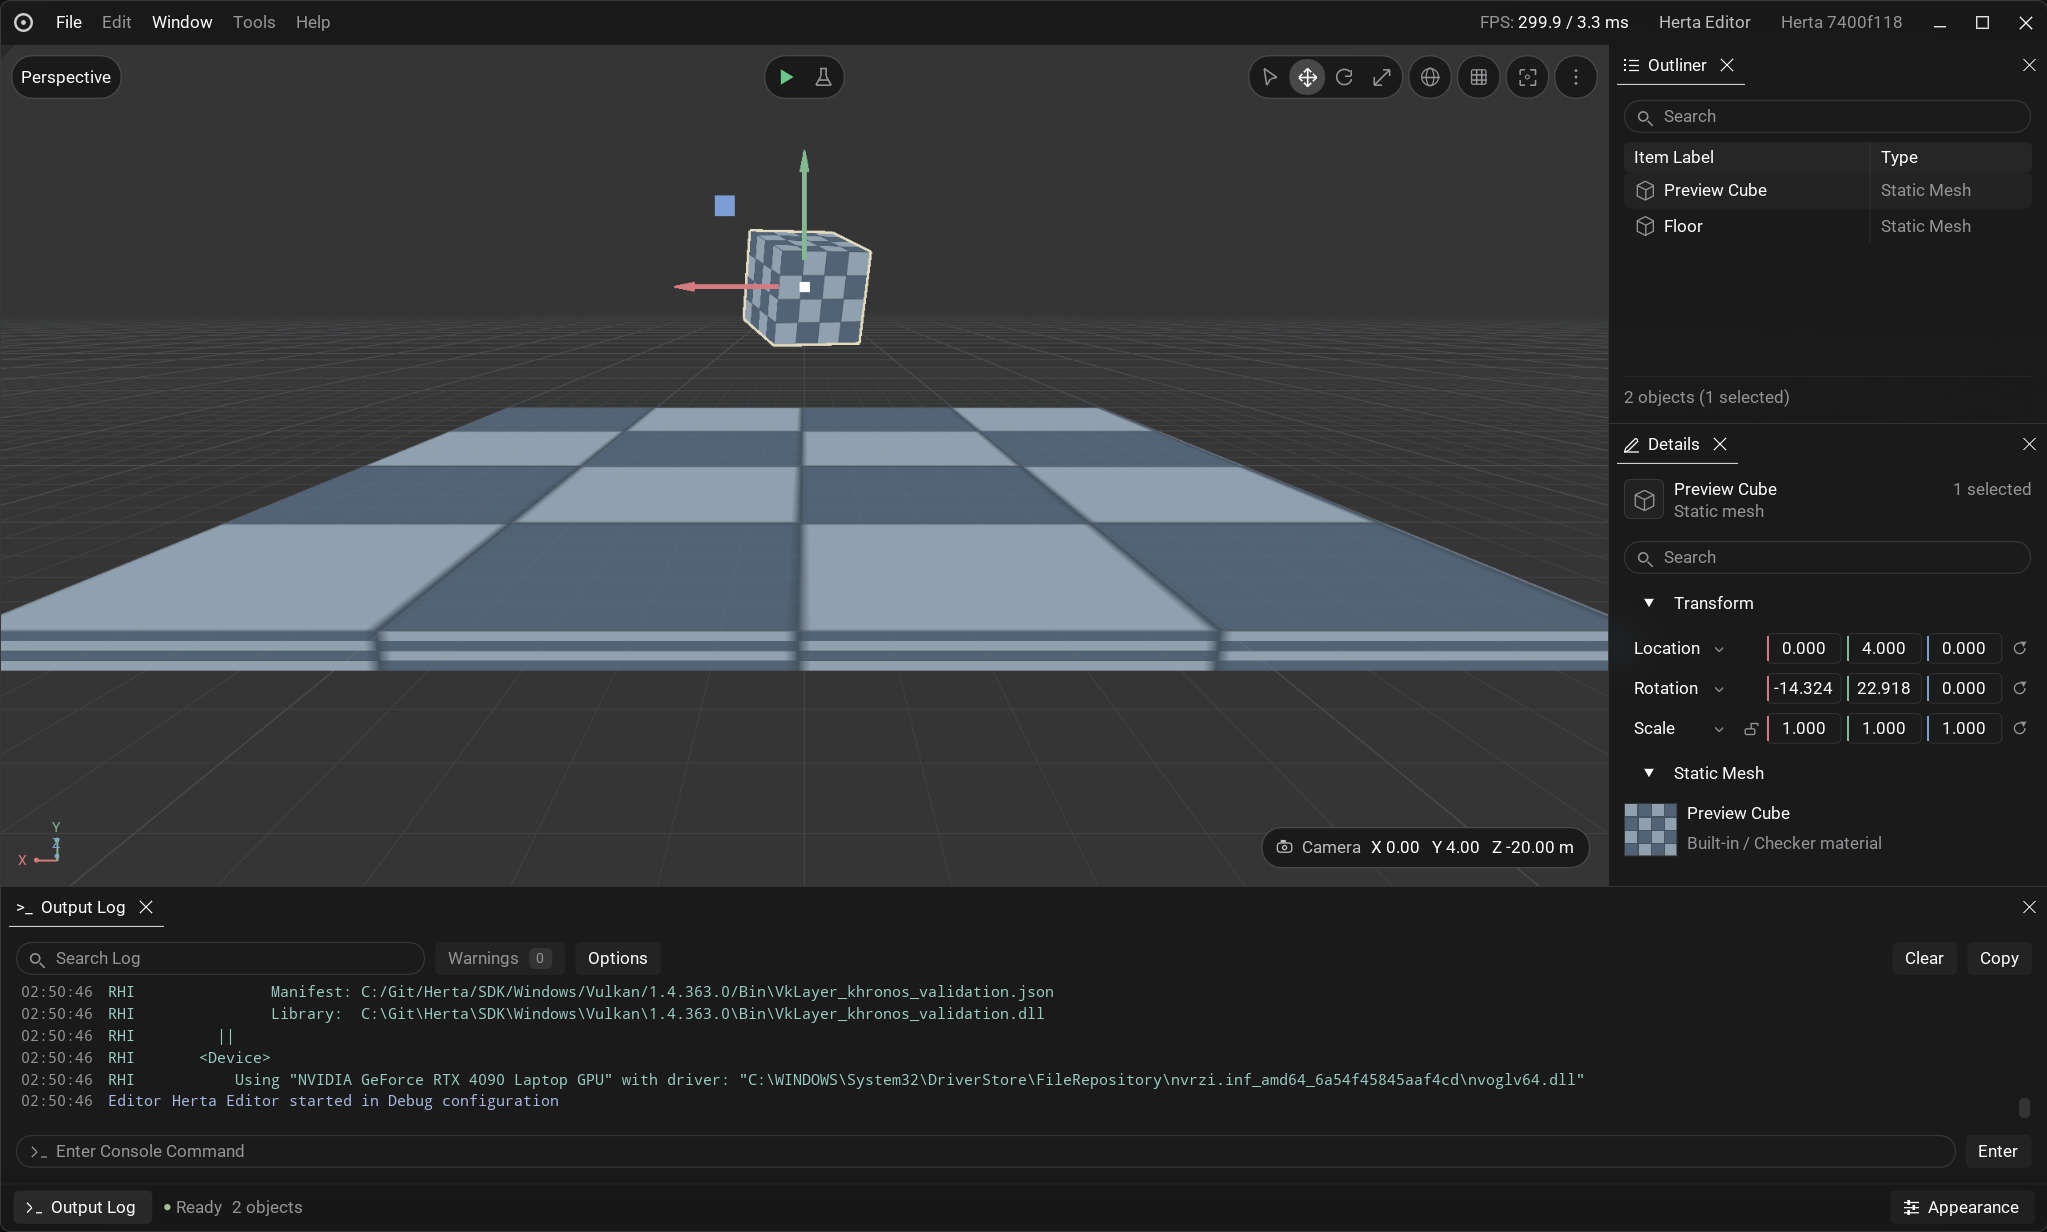
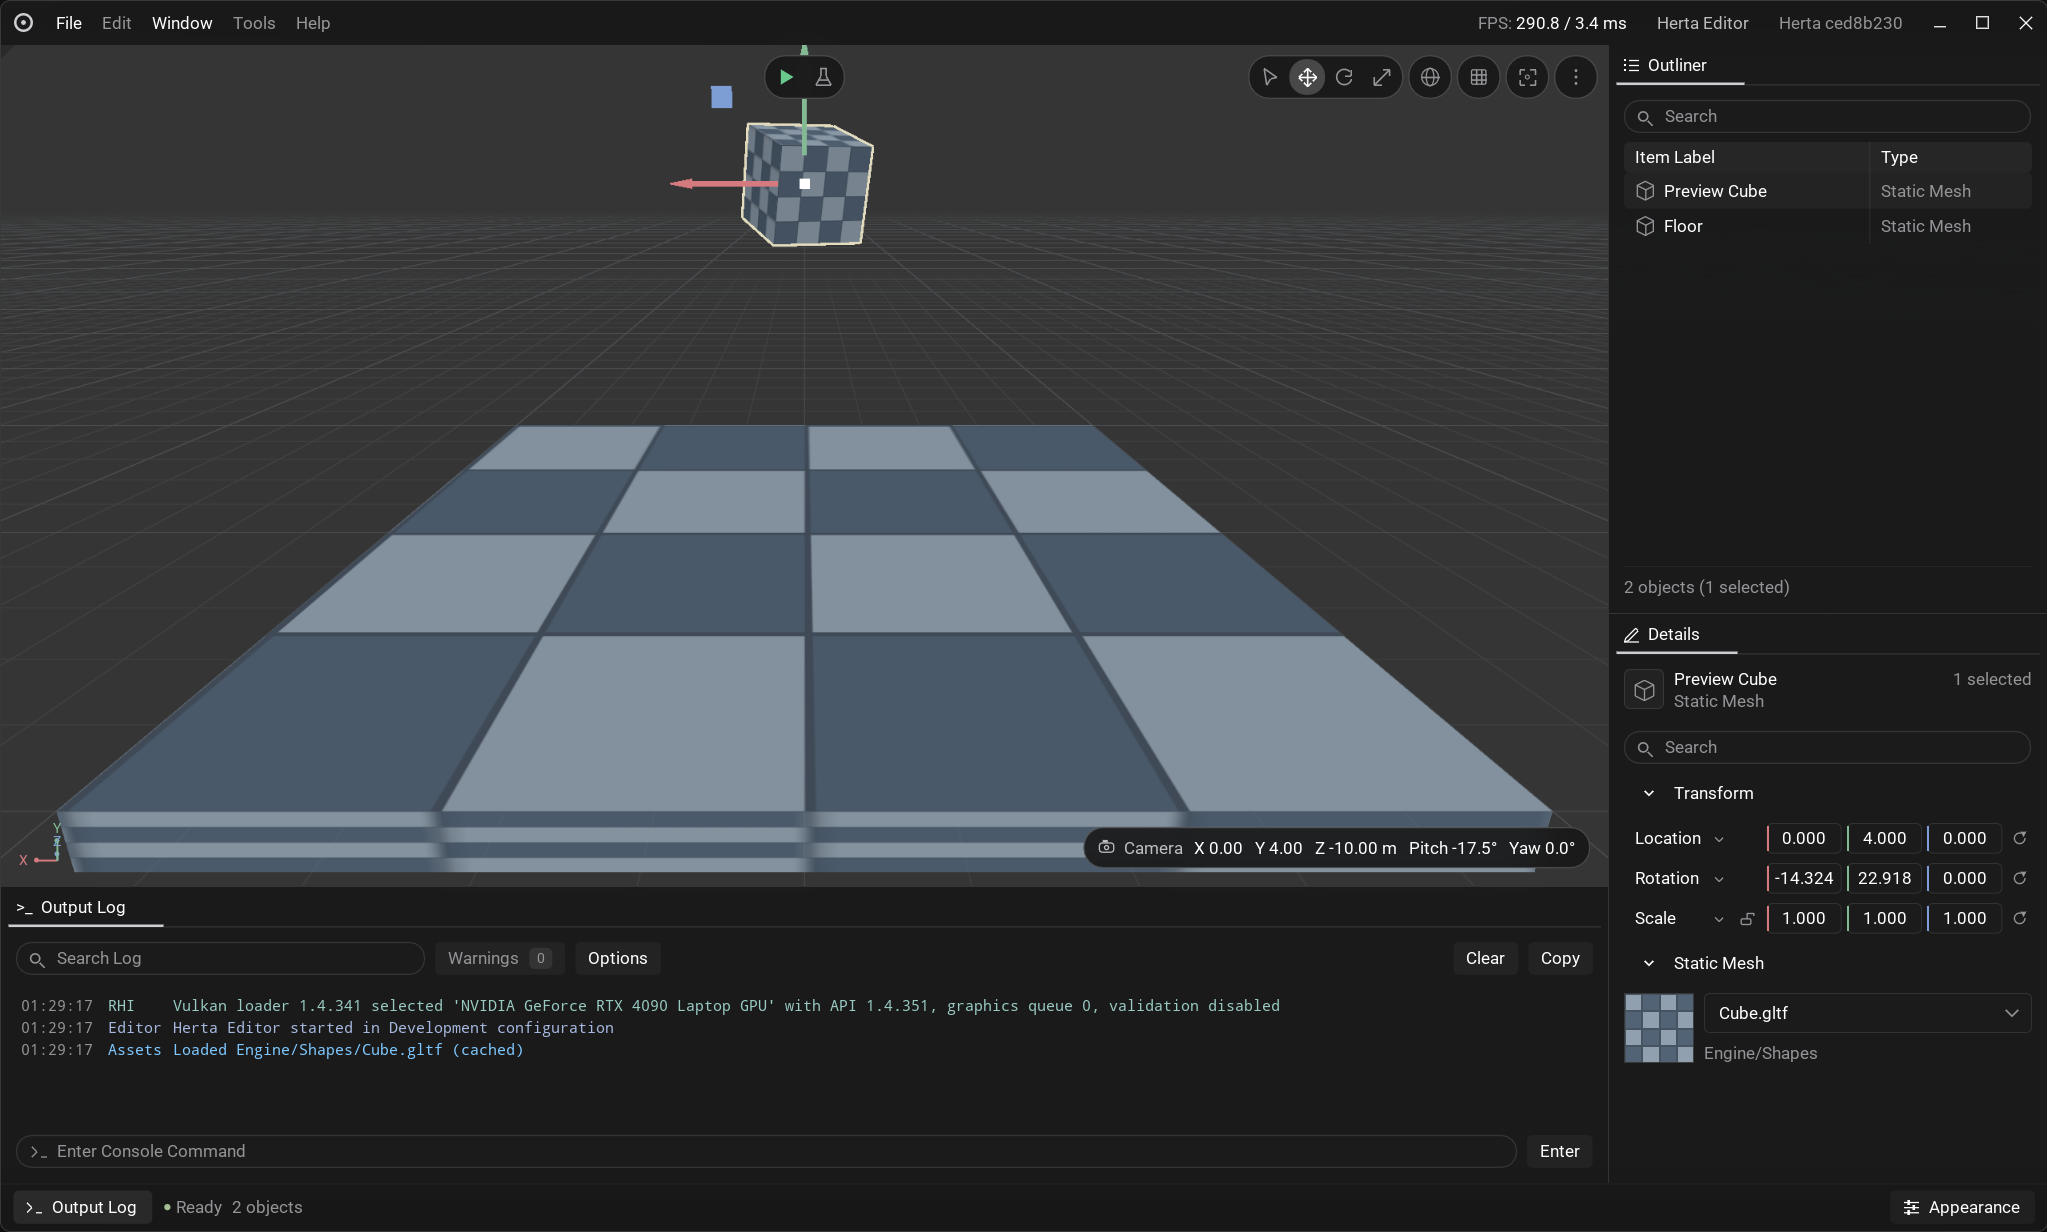
Added immersive viewport and command-line build instructions

diff --git a/Engine/Source/Runtime/ToolUI/Private/ToolUI.cpp b/Engine/Source/Runtime/ToolUI/Private/ToolUI.cpp
@@ -2,6 +2,7 @@
 
 #include "Herta/Application/Application.h"
 #include "Herta/Core/Build.h"
+#include "ImmersiveViewport.h"
 
 #define GLFW_INCLUDE_NONE
 #include <GLFW/glfw3.h>
@@ -383,6 +384,8 @@ struct FToolUIContext::FImplementation
 	ImGuiStyle BaseStyle;
 	void (*BackendPlatformDestroyWindow)(ImGuiViewport*) = nullptr;
 	ImGuiID DockspaceId = 0;
+	bool bViewportImmersive = false;
+	bool bFocusViewportRequested = false;
 	FToolUICanvasBounds WorkspaceCanvas;
 	float CurrentStyleScale = 1.0f;
 	float MainMenuRight = 0.0f;
@@ -2061,7 +2064,7 @@ void FToolUIContext::DrawWorkspace(const std::string_view ApplicationTitle, cons
 	DockspaceBackground.w = 0.0f;
 	ImGui::PushStyleColor(ImGuiCol_WindowBg, DockspaceBackground);
 	ImGui::PushStyleVar(ImGuiStyleVar_FramePadding, {6.0f * ChromeScale, ImGui::GetStyle().FramePadding.y});
-	ImGui::DockSpace(Implementation->DockspaceId, DockSize, ImGuiDockNodeFlags_PassthruCentralNode);
+	ImGui::DockSpace(Implementation->DockspaceId, DockSize, Implementation->bViewportImmersive ? ImGuiDockNodeFlags_KeepAliveOnly : ImGuiDockNodeFlags_PassthruCentralNode);
 	ImGui::PopStyleVar();
 	ImGui::PopStyleColor();
 	if (Implementation->bBuildDefaultLayout || bDockspaceMissing)
@@ -2146,20 +2149,31 @@ void FToolUIContext::DrawWorkspace(const std::string_view ApplicationTitle, cons
 
 bool FToolUIContext::BeginPanel(const std::string_view Name, bool* const bOpen, const bool bViewport)
 {
-	const ImGuiID WindowId = ImHashStr(Name.data(), Name.size());
+	const bool bImmersive = bViewport && Implementation->bViewportImmersive;
+	const ImGuiID WindowId = bImmersive ? ImHashStr(ImmersiveViewportName) : ImHashStr(Name.data(), Name.size());
 	const auto Previous = Implementation->PreviousDockState.find(WindowId);
 	const bool bPreviouslyDocked = Previous != Implementation->PreviousDockState.end() && Previous->second;
 	ImGui::SetNextWindowBgAlpha(ResolveToolUIPanelBackgroundAlpha(Implementation->Appearance.PanelTransparency, bPreviouslyDocked, bViewport));
 	if (bViewport)
 		ImGui::PushStyleVar(ImGuiStyleVar_WindowPadding, {0, 0});
 	const std::string Label = Name == "Outliner" || Name == "Details" ? std::format("      {}###{}", Name, Name) : std::string(Name);
-	const bool bVisible = ImGui::Begin(Label.c_str(), bOpen);
+	if (bImmersive)
+	{
+		// Submit the original window so docking retains its place while the overlay is active.
+		(void)ImGui::Begin(Label.c_str(), bOpen, ImGuiWindowFlags_NoInputs);
+		ImGui::End();
+	}
+	if (bViewport && !bImmersive && Implementation->bFocusViewportRequested)
+		ImGui::SetNextWindowFocus();
+	const bool bVisible = bImmersive ? BeginImmersiveViewport(Implementation->WorkspaceCanvas, Implementation->bFocusViewportRequested) : ImGui::Begin(Label.c_str(), bOpen, Implementation->bViewportImmersive ? ImGuiWindowFlags_NoInputs : ImGuiWindowFlags_None);
+	if (bViewport)
+		Implementation->bFocusViewportRequested = false;
 	if (bViewport)
 		ImGui::PopStyleVar();
 	Implementation->PreviousDockState[WindowId] = ImGui::IsWindowDocked();
 	if (ImGuiDockNode* const Node = ImGui::GetCurrentWindow()->DockNode)
 		Node->LocalFlags |= ImGuiDockNodeFlags_NoWindowMenuButton | ImGuiDockNodeFlags_NoCloseButton;
-	if (bVisible)
+	if (bVisible && (!Implementation->bViewportImmersive || bViewport))
 	{
 		Implementation->PresentedPanels[WindowId] = bViewport;
 	}
@@ -2170,7 +2184,7 @@ bool FToolUIContext::BeginPanel(const std::string_view Name, bool* const bOpen, 
 			Node->LocalFlags |= ImGuiDockNodeFlags_AutoHideTabBar;
 		}
 	}
-	return bVisible;
+	return bVisible && (!Implementation->bViewportImmersive || bViewport);
 }
 
 void FToolUIContext::EndPanel()
@@ -2178,9 +2192,24 @@ void FToolUIContext::EndPanel()
 	ImGui::End();
 }
 
+void FToolUIContext::SetViewportImmersive(const bool bImmersive) noexcept
+{
+	if (Implementation->bViewportImmersive == bImmersive)
+		return;
+	Implementation->bViewportImmersive = bImmersive;
+	Implementation->bFocusViewportRequested = true;
+}
+
+bool FToolUIContext::IsViewportImmersive() const noexcept
+{
+	return Implementation->bViewportImmersive;
+}
+
 std::optional<FToolUICanvasBounds> FToolUIContext::GetWorkspaceCanvasForCurrentPanel() const noexcept
 {
 	const ImGuiWindow* const Window = ImGui::GetCurrentWindow();
+	if (Implementation->bViewportImmersive && Window->ID == ImHashStr(ImmersiveViewportName))
+		return Implementation->WorkspaceCanvas;
 	if (Window->Viewport != ImGui::GetMainViewport() || Window->DockNode == nullptr ||
 	    ImGui::DockNodeGetRootNode(Window->DockNode)->ID != Implementation->DockspaceId)
 		return std::nullopt;

diff --git a/Engine/Source/Programs/HertaTests/Private/ToolUITests.cpp b/Engine/Source/Programs/HertaTests/Private/ToolUITests.cpp
@@ -1,4 +1,7 @@
 #include "Herta/ToolUI/ToolUI.h"
+#include "../../../Runtime/ToolUI/Private/ImmersiveViewport.h"
+
+#include <imgui_internal.h>
 
 #include <doctest/doctest.h>
 #include <fstream>
@@ -7,6 +10,58 @@
 
 namespace Herta
 {
+TEST_CASE("Immersive viewport follows workspace bounds without changing dock membership")
+{
+	ImGuiContext* const PreviousContext = ImGui::GetCurrentContext();
+	ImGuiContext* const Context = ImGui::CreateContext();
+	ImGui::SetCurrentContext(Context);
+	ImGuiIO& IO = ImGui::GetIO();
+	IO.DisplaySize = {1280, 720};
+	IO.DeltaTime = 1.0f / 60.0f;
+	IO.IniFilename = nullptr;
+	IO.ConfigFlags |= ImGuiConfigFlags_DockingEnable;
+	IO.BackendFlags |= ImGuiBackendFlags_RendererHasTextures;
+	IO.Fonts->AddFontDefault();
+	const ImGuiID DockId = ImHashStr("ImmersiveTestDock");
+	for (int Frame = 0; Frame < 5; ++Frame)
+	{
+		const bool bImmersive = Frame > 0 && Frame < 4;
+		ImGui::NewFrame();
+		if (Frame == 0)
+		{
+			ImGui::DockBuilderAddNode(DockId, ImGuiDockNodeFlags_DockSpace);
+			ImGui::DockBuilderSetNodeSize(DockId, {1280, 640});
+			ImGui::DockBuilderDockWindow("Viewport", DockId);
+			ImGui::DockBuilderFinish(DockId);
+		}
+		ImGui::SetNextWindowPos({0, 36});
+		ImGui::SetNextWindowSize({1280, 640});
+		(void)ImGui::Begin("DockHost", nullptr, ImGuiWindowFlags_NoSavedSettings);
+		ImGui::DockSpace(DockId, {1280, 640}, bImmersive ? ImGuiDockNodeFlags_KeepAliveOnly : ImGuiDockNodeFlags_None);
+		ImGui::End();
+		(void)ImGui::Begin("Viewport", nullptr, bImmersive ? ImGuiWindowFlags_NoInputs : ImGuiWindowFlags_None);
+		CHECK(ImGui::GetCurrentWindow()->DockId == DockId);
+		ImGui::End();
+		if (bImmersive)
+		{
+			const FToolUICanvasBounds Canvas{0, 36, Frame == 2 ? 1000.0f : 1280.0f, 640};
+			(void)BeginImmersiveViewport(Canvas, Frame == 1);
+			const ImGuiWindow* const Window = ImGui::GetCurrentWindow();
+			CHECK(Window->DockId == 0);
+			CHECK(Window->Viewport == ImGui::GetMainViewport());
+			CHECK(Window->Pos.y == Canvas.Y);
+			CHECK(Window->Size.x == Canvas.Width);
+			CHECK(Window->Size.y == Canvas.Height);
+			CHECK((Window->Flags & ImGuiWindowFlags_NoSavedSettings) != 0);
+			CHECK((Window->Flags & ImGuiWindowFlags_NoDocking) != 0);
+			ImGui::End();
+		}
+		ImGui::Render();
+	}
+	ImGui::DestroyContext(Context);
+	ImGui::SetCurrentContext(PreviousContext);
+}
+
 TEST_CASE("ToolUI scene canvas excludes chrome but not overlay panels")
 {
 	CHECK(ResolveToolUIWorkspaceCanvas({0, 0, 1920, 1080}, 36, 32) == FToolUICanvasBounds{0, 36, 1920, 1012});

diff --git a/Engine/Source/Editor/EditorFramework/Private/EditorFramework.cpp b/Engine/Source/Editor/EditorFramework/Private/EditorFramework.cpp
@@ -492,6 +492,8 @@ std::expected<void, FEditorFrameworkError> FEditorFramework::Draw(const std::fun
 	try
 	{
 		ImGuiIO& IO = ImGui::GetIO();
+		if (!IO.AppFocusLost && !IO.WantTextInput && IO.KeyMods == 0 && Implementation->ViewportInteraction.DragButton < 0 && !ImGui::IsAnyItemActive() && !ImGui::IsPopupOpen(nullptr, ImGuiPopupFlags_AnyPopupId | ImGuiPopupFlags_AnyPopupLevel) && ImGui::IsKeyPressed(ImGuiKey_F11, false))
+			Implementation->ToolUI->SetViewportImmersive(!Implementation->ToolUI->IsViewportImmersive());
 		Implementation->bSimulationStoppedThisFrame = false;
 		Implementation->RefreshPreviewMeshes();
 		if (!IO.AppFocusLost && Implementation->Simulation.IsRunning() && ImGui::IsKeyPressed(ImGuiKey_Escape, false))
@@ -1352,7 +1354,7 @@ void FEditorFramework::FImplementation::DrawViewport(const std::function<void()>
 			// Render after layout and input, before recording the texture ID that resize may replace.
 			RenderViewport();
 			Layers.SetCurrentChannel(PanelDrawList, 0);
-			if (ViewportTexture != 0 && WorkspaceCanvas)
+			if (ViewportTexture != 0 && WorkspaceCanvas && !ToolUI->IsViewportImmersive())
 			{
 				ImDrawList* const Background = ImGui::GetBackgroundDrawList(ImGui::GetWindowViewport());
 				Background->PushClipRect(RenderMinimum, {RenderMinimum.x + RenderSize.x, RenderMinimum.y + RenderSize.y}, true);

diff --git a/Engine/Source/Runtime/ToolUI/Private/ImmersiveViewport.h b/Engine/Source/Runtime/ToolUI/Private/ImmersiveViewport.h
@@ -1,0 +1,21 @@
+#pragma once
+
+#include "Herta/ToolUI/ToolUI.h"
+
+#include <imgui.h>
+
+namespace Herta
+{
+inline constexpr char ImmersiveViewportName[] = "Viewport###HertaImmersiveViewport";
+
+[[nodiscard]] inline bool BeginImmersiveViewport(const FToolUICanvasBounds& Canvas, const bool bFocus)
+{
+	ImGui::SetNextWindowViewport(ImGui::GetMainViewport()->ID);
+	ImGui::SetNextWindowPos({Canvas.X, Canvas.Y});
+	ImGui::SetNextWindowSize({Canvas.Width, Canvas.Height});
+	ImGui::SetNextWindowBgAlpha(0.0f);
+	if (bFocus)
+		ImGui::SetNextWindowFocus();
+	return ImGui::Begin(ImmersiveViewportName, nullptr, ImGuiWindowFlags_NoDocking | ImGuiWindowFlags_NoTitleBar | ImGuiWindowFlags_NoMove | ImGuiWindowFlags_NoResize | ImGuiWindowFlags_NoSavedSettings);
+}
+}

diff --git a/Engine/Source/Runtime/ToolUI/Public/Herta/ToolUI/ToolUI.h b/Engine/Source/Runtime/ToolUI/Public/Herta/ToolUI/ToolUI.h
@@ -141,6 +141,8 @@ public:
 	void DrawWorkspace(std::string_view ApplicationTitle, const std::function<void()>& DrawWindowMenuItems = {}, const std::function<void()>& DrawStatusItems = {});
 	[[nodiscard]] bool BeginPanel(std::string_view Name, bool* bOpen = nullptr, bool bViewport = false);
 	void EndPanel();
+	void SetViewportImmersive(bool bImmersive) noexcept;
+	[[nodiscard]] bool IsViewportImmersive() const noexcept;
 	void PushLogFont();
 	void PopLogFont();
 	[[nodiscard]] std::optional<FToolUICanvasBounds> GetWorkspaceCanvasForCurrentPanel() const noexcept;

diff --git a/README.md b/README.md
@@ -18,7 +18,7 @@ The workspace renders the scene across the canvas beneath blurred Outliner, Deta
 
 See [Rendering.md](Docs/Rendering.md) for GPU ownership, shader cooking, and renderer verification. Use **File > Reset layout** to restore the default arrangement, including the Output Log's 26% workspace height. Existing saved layouts are preserved when defaults change.
 
-In the Viewport, hold RMB and use WASD/QE to fly, Alt+LMB to orbit, MMB to pan, and the wheel to dolly. Press F to focus the selection. Click the cube or floor to select it; Ctrl+click or Shift+click toggles additional objects. Click empty viewport space or press Escape in the focused viewport to deselect. During a transform drag, Escape restores the entire selection instead. The toolbar provides move/rotate/scale, local/world axes, snapping, and camera/debug settings. Transform edits apply to the selection around its active object's pivot and are not saved.
+In the Viewport, hold RMB and use WASD/QE to fly, Alt+LMB to orbit, MMB to pan, and the wheel to dolly. Press F to focus the selection. F11 toggles a full-workspace viewport without changing the saved panel layout. Click the cube or floor to select it; Ctrl+click or Shift+click toggles additional objects. Click empty viewport space or press Escape in the focused viewport to deselect. During a transform drag, Escape restores the entire selection instead. The toolbar provides move/rotate/scale, local/world axes, snapping, and camera/debug settings. Transform edits apply to the selection around its active object's pivot and are not saved.
 
 The editor preview includes a 1 m cube initially positioned at Y=4 m and a 10 m square floor whose top is at Y=0. Both use the engine cube asset `Engine/Content/Shapes/Cube.gltf`; the floor is that cube scaled to 10 x 0.5 x 10 m. Click **Simulate** or press **Alt+S** to drop the cube from its current editor transform using Jolt Physics. Camera navigation and selection remain available, but transform editing is locked. Press **Escape** or click the active Simulate button to stop and restore the original transform. Physics runs at 60 Hz with render interpolation and bounded catch-up after stalls. **Play** remains disabled because the game runtime is not implemented. This is an editor preview slice, not the full physics milestone.
 
@@ -121,6 +121,14 @@ Binaries\windows\x86_64\Development\HertaEditor.exe
 ```
 
 Use `Herta.sln` when Setup selected the fallback toolchain.
+
+From PowerShell 7+ in the repository root, build and launch the editor without an IDE using the installed MSBuild path:
+
+```powershell
+& "C:\Program Files (x86)\Microsoft Visual Studio\18\BuildTools\MSBuild\Current\Bin\MSBuild.exe" Herta.slnx /m /t:HertaEditor /p:Configuration=Development /p:Platform=x64 && .\Binaries\windows\x86_64\Development\HertaEditor.exe
+```
+
+Adjust the MSBuild path for your Visual Studio installation. `&&` launches the editor only if the build succeeds; Windows PowerShell 5.1 does not support it. Replace `Development` with `Debug` in both paths and arguments to enable debug builds and validation.
 
 To verify both Windows compilers locally, add **C++ Clang tools for Windows** and **MSBuild support for LLVM (clang-cl)** to the same Visual Studio installation, then run:
 

diff --git a/Docs/EditorStyle.md b/Docs/EditorStyle.md
@@ -103,6 +103,8 @@ The title row contains menus on the left and live FPS/frame time, application ti
 
 Viewport actions use rounded glass islands with hover transitions. Grid and coordinate-space controls expand contextually; reduced motion makes transitions immediate. Narrow layouts collapse optional islands and expose transform, snap, and focus actions in the rightmost settings menu. Play and Simulate stay centered on the top row while the current neighboring islands leave the standard toolbar gap on both sides; otherwise they move down one row. Play is disabled until a runtime exists; Simulate runs the physics preview. There is no view selector until orthographic views exist.
 
+F11 toggles an immersive Viewport across the main workspace while retaining title and status chrome. A temporary viewport window renders above the hidden panels; original docked windows remain alive without changing their open flags or saved layout. F11 restores the original Viewport and keyboard focus. The toggle is disabled during text entry, active drags, and popups.
+
 Panel presentation is applied through a ToolUI window wrapper before `ImGui::Begin`. The wrapper tracks the previous dock state by stable window ID because Dear ImGui exposes the current dock state only after the window begins. Herta-owned panels do not reach into ImGui internals for this. Third-party panels require a narrow adapter if their `Begin` call cannot be wrapped.
 
 The V3 dock layout migrates the earlier wide-sidebar layout once: Details starts at 350 logical pixels and Output Log occupies 18% of the docking area. The scene fills the entire workspace canvas beneath those panels, excluding title and status chrome. Viewport controls and input remain in the uncovered dock region, while projection and picking use the full scene rectangle. Detached Viewports use their own content rectangles. Subsequent launches retain docking and intentional floating state. Controls and hit regions respect each viewport's DPI.
